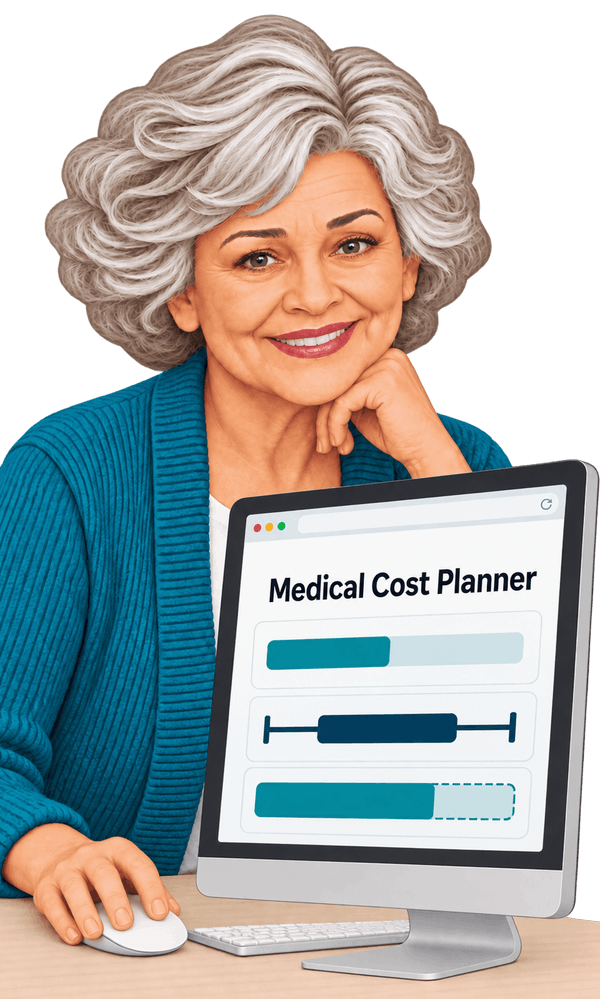
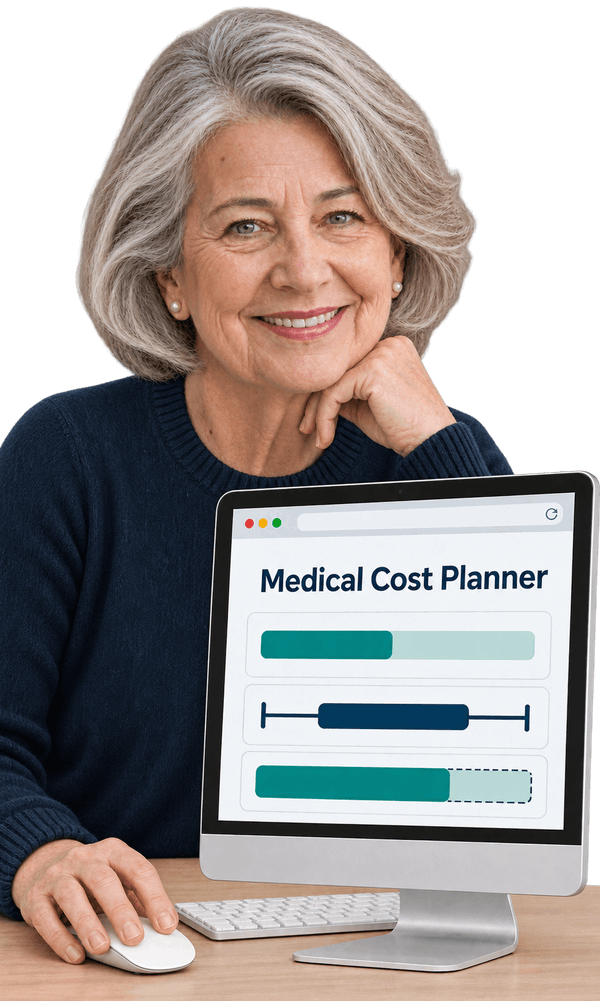
docs: unify example user appearance across images in slides

diff --git a/docs/slides/generate_slides.py b/docs/slides/generate_slides.py
@@ -324,7 +324,7 @@ def build_presentation():
     text(problem, "Aim label", "The aim", 652, 520, 556, 36, 30, bold=True)
     text(problem, "Intended estimate", "A useful ballpark estimate from questions "
          "people can answer from memory.", 652, 560, 556, 72, 30)
-    picture(problem, SLIDES_DIR / "assets/budget-planning.png",
+    picture(problem, SLIDES_DIR / "assets/budget-planning.jpg",
             "Illustration of an adult considering a budget with a planner and calculator.",
             72, 120, 1136, 379)
     text(problem, "Problem statement appendix label", "Appendix:",

diff --git a/docs/slides/storyboard.md b/docs/slides/storyboard.md
@@ -109,7 +109,7 @@ spending to plan their budget and HSA/FSA contributions.
 - **The aim:** A useful ballpark estimate from questions people can answer from
   memory.
 
-**Visual:** Wide [budgeting illustration](assets/budget-planning.png) above
+**Visual:** Wide [budgeting illustration](assets/budget-planning.jpg) above
 two columns: challenge and aim.
 
 **Appendix link:** [U.S. healthcare cost explainer (A1)](#a1--us-healthcare-costs-out-of-pocket-spending-and-hsafsa-planning).
